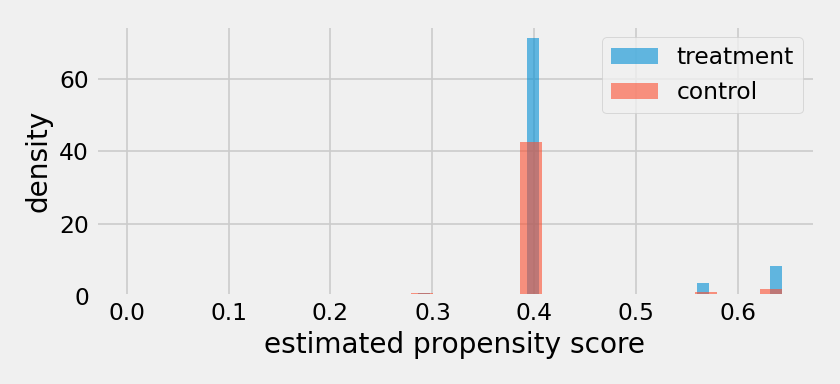
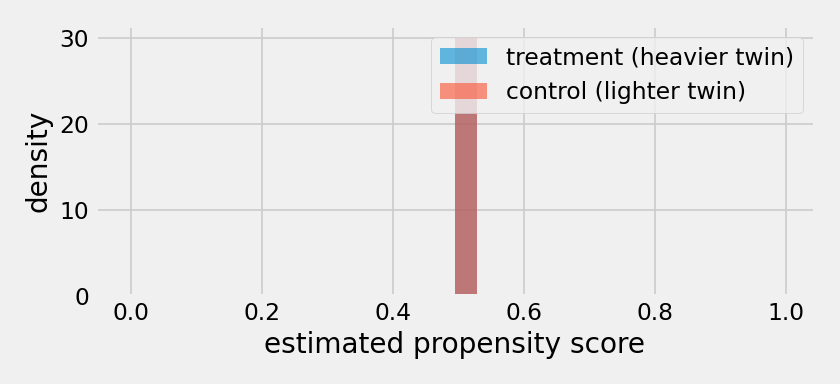
Rebase the tutorial onto the Twins benchmark
LaLonde carries only an experimental ATE, so the tutorial's heterogeneity
steps had no truth to check against. Twins (fetch_twins) observes both twins
of each pair, so both potential outcomes are measured rather than simulated
and the per-unit effect is known.

The evaluation step now teaches with ground truth: the default XGB X-learner
scores worse than predicting zero effect on held-out PEHE and its RATE is
significantly negative (p = 0.006) -- overfitting individual noise -- and a
regularized refit brings PEHE to the zero baseline, cuts the ATE error 3x,
and returns a null RATE. The honest conclusion is stated: +1.6pp survival
from higher birth weight, no heterogeneity that survives a held-out test.

The outcome is modeled as survival so a positive effect is a benefit, the
orientation the ranking metrics assume. All outputs are from a real seeded
run; the overlap figure now shows the flat propensity a coin-flip assignment
produces.

diff --git a/docs/tutorial.rst b/docs/tutorial.rst
@@ -2,23 +2,22 @@
 A First Causal Analysis
 ========================
 
-This tutorial walks one real analysis end to end: estimating the effect of a
-job-training program on earnings, on data where the right answer is known. Each
-step names the User Guide page that covers it in depth. The dataset downloads
-on first use and is cached locally (see :doc:`datasets`).
-
-Because the data come from a randomized experiment, the simple
-difference in means is a valid benchmark -- which is exactly what makes this a
-good first dataset: every estimate below can be checked against it.
+This tutorial walks one real analysis end to end, on a dataset where the
+per-unit ground truth is known -- so every estimate below can be checked
+against the right answer, including the heterogeneous ones. Each step names
+the User Guide page that covers it in depth. The dataset downloads on first
+use and is cached locally (see :doc:`datasets`).
 
 Step 1: State the question
 ==========================
 
-The National Supported Work (NSW) demonstration randomly assigned
-disadvantaged workers to a job-training program. The question: what was the
-effect of training (the treatment) on 1978 earnings (the outcome)? The
-experimental difference in means, about $1,794, is the number an estimator
-should recover :cite:`lalonde1986evaluating`.
+The Twins benchmark :cite:`louizos2017causal` covers 11,400 same-sex twin
+births from US birth records. The treatment is being the heavier twin of the
+pair and the outcome is one-year mortality. Because *both* twins are observed,
+both potential outcomes are measured rather than simulated: the true effect
+for every pair, and therefore the true average effect, is known. The question:
+what is the effect of higher birth weight on survival, and does it vary across
+pairs?
 
 Step 2: Load the data
 =====================
@@ -27,27 +26,34 @@ Step 2: Load the data
 
     import numpy as np
     import pandas as pd
-    from causalml.dataset import fetch_lalonde
+    from causalml.dataset import fetch_twins
 
     RS = 42
     np.random.seed(RS)
 
-    data = fetch_lalonde()
+    data = fetch_twins(random_state=RS)
     X = pd.DataFrame(data.data, columns=data.feature_names)
     treatment = np.asarray(data.treatment)
-    y = np.asarray(data.target)
+    y = 1 - np.asarray(data.target)   # survival = 1 - mortality
+    tau_true = -np.asarray(data.tau)  # effect on survival
 
     print(X.shape, treatment.sum())
-    print(y[treatment == 1].mean() - y[treatment == 0].mean())
+    print("true ATE: %.4f" % tau_true.mean())
+    print("diff in means: %.4f" % (y[treatment == 1].mean() - y[treatment == 0].mean()))
 
 .. code-block:: text
 
-    (445, 8) 185
-    1794.3
+    (11400, 30) 5640
+    true ATE: 0.0161
+    diff in means: 0.0189
 
-445 workers, 185 treated; the covariates are age, education, race/ethnicity
-indicators, marital status, a no-degree indicator, and earnings in 1974 and
-1975.
+The recorded outcome is mortality; the code models survival so that a positive
+effect is a benefit, which is the orientation the ranking metrics in Step 6
+assume. The lighter twin's one-year mortality is 17.8%, matching the figure
+reported by :cite:`louizos2017causal`, and being the heavier twin raises
+survival by 1.61 percentage points on average. The loader reveals one twin per
+pair by a fair coin (``random_state`` fixes the coin), so the difference in
+means, 1.89 points, is a valid but noisy estimate of that truth.
 
 Step 3: Check overlap
 =====================
@@ -63,14 +69,21 @@ its distribution across groups:
 
     pm = ElasticNetPropensityModel(random_state=RS)
     p_hat = pm.fit_predict(X, treatment)
+    print("%.3f - %.3f" % (p_hat.min(), p_hat.max()))
+
+.. code-block:: text
+
+    0.495 - 0.495
 
 .. image:: ./_static/img/tutorial_overlap.png
     :width: 629
-    :alt: Overlapping propensity-score histograms for the treatment and control groups.
+    :alt: Propensity scores concentrated at a single value for both twins, as expected under randomized assignment.
 
-The two distributions overlap over their whole range, as they should in a
-randomized experiment. Because the assignment probability is known here, the
-estimators below receive it directly rather than an estimate of it:
+The estimated propensity is the same for every unit: no covariate predicts
+which twin was revealed, exactly what a coin flip should produce. On
+observational data this picture instead shows two separated distributions, and
+this step is where problems announce themselves. Because the assignment
+probability is known here, the estimators below receive it directly:
 
 .. code-block:: python
 
@@ -80,9 +93,12 @@ Step 4: Estimate the average effect
 ===================================
 
 Start with a transparent baseline -- a :ref:`T-Learner <methodology:T-Learner>`
-with linear regression, which fits one regression per group and differences the
-predictions -- then a more flexible :ref:`X-Learner <methodology:X-Learner>`
-with gradient-boosted trees:
+with linear regression, which fits one regression per group and differences
+the predictions -- then a more flexible :ref:`X-Learner
+<methodology:X-Learner>` with gradient-boosted trees. (The outcome is binary;
+the ``*Classifier`` learner variants accept classification base learners, but
+a regressor on a binary outcome estimates the same risk difference and keeps
+this tutorial short.)
 
 .. code-block:: python
 
@@ -98,12 +114,13 @@ with gradient-boosted trees:
 
 .. code-block:: text
 
-    (array([1622.06]), array([335.90]), array([2908.22]))
-    (array([1865.90]), array([1138.36]), array([2593.43]))
+    (array([0.01767856]), array([0.00610093]), array([0.02925618]))
+    (array([0.01737203]), array([0.01086719]), array([0.02387686]))
 
 Each call returns the ATE with a confidence interval (how these are computed
-is cataloged in :doc:`inference`). Both intervals bracket the experimental
-benchmark of $1,794.
+is cataloged in :doc:`inference`). Both intervals bracket the true value of
+0.0161 -- on most datasets there is no such number to check against, which is
+what the :doc:`validation <validation>` machinery is for.
 
 Step 5: Estimate heterogeneous effects
 ======================================
@@ -112,57 +129,98 @@ The same fitted X-learner produces a per-unit CATE estimate:
 
 .. code-block:: python
 
-    cate = xl.fit_predict(X=X, treatment=treatment, y=y, p=p)
-    print(cate.mean(), cate.std())
+    cate = xl.fit_predict(X=X, treatment=treatment, y=y, p=p).flatten()
+    print("mean %.4f sd %.4f" % (cate.mean(), cate.std()))
 
 .. code-block:: text
 
-    1865.9 6119.3
+    mean 0.0174 sd 0.1495
 
-The spread is large relative to the mean -- but spread in the *estimates* is
-not evidence of real heterogeneity. Whether any of it is signal is a question
-for held-out evaluation.
+The spread is nine times the average effect -- but spread in the *estimates*
+is not evidence of real heterogeneity. Whether any of it is signal is the next
+step's question.
 
-Step 6: Evaluate on held-out data
-=================================
+Step 6: Evaluate against the ground truth
+=========================================
 
-Refit on a training split and score the held-out split with the Qini
-coefficient and :ref:`RATE <methodology:RATE>` (see :doc:`validation` for the
-full evaluation workflow):
+Refit on a training split and evaluate the held-out split. With ground truth
+available, PEHE (the root mean squared error of the per-unit effect estimates)
+and ``ate_error`` measure accuracy directly; the Qini coefficient and
+:ref:`RATE <methodology:RATE>` are the tests available on real data, where no
+truth exists (see :doc:`validation`):
 
 .. code-block:: python
 
     from sklearn.model_selection import train_test_split
-    from causalml.metrics import qini_score, rate_score
+    from causalml.metrics import pehe, ate_error, qini_score, rate_score
 
-    X_tr, X_te, w_tr, w_te, y_tr, y_te = train_test_split(
-        X, treatment, y, test_size=0.3, random_state=RS, stratify=treatment
-    )
+    idx = np.arange(len(y))
+    tr, te = train_test_split(idx, test_size=0.3, random_state=RS,
+                              stratify=treatment)
+    p_tr = np.full(len(tr), treatment[tr].mean())
+    p_te = np.full(len(te), treatment[tr].mean())
+
     xl_ho = BaseXRegressor(learner=XGBRegressor(random_state=RS))
-    xl_ho.fit(X=X_tr, treatment=w_tr, y=y_tr, p=np.full(len(y_tr), w_tr.mean()))
-    cate_te = xl_ho.predict(X=X_te, p=np.full(len(y_te), w_tr.mean())).flatten()
+    xl_ho.fit(X=X.iloc[tr], treatment=treatment[tr], y=y[tr], p=p_tr)
+    cate_te = xl_ho.predict(X=X.iloc[te], p=p_te).flatten()
 
-    df = pd.DataFrame({"y": y_te, "w": w_te, "X-learner": cate_te})
-    print(qini_score(df, outcome_col="y", treatment_col="w",
-                     return_ci=True, random_state=RS))
+    print("PEHE: %.4f" % pehe(tau_true[te], cate_te, squared=False))
+    print("PEHE, predicting zero: %.4f" % pehe(tau_true[te], np.zeros(len(te)), squared=False))
+    print("ate_error: %.4f" % ate_error(tau_true[te], cate_te))
+
+    df = pd.DataFrame({"y": y[te], "w": treatment[te], "X-learner": cate_te})
     print(rate_score(df, outcome_col="y", treatment_col="w",
                      return_ci=True, random_state=RS))
 
 .. code-block:: text
 
-                   qini        se  ci_lower  ci_upper   p_value
-    model
-    X-learner -0.648355  1.480567 -3.550212  2.253503  0.661452
+    PEHE: 0.3540
+    PEHE, predicting zero: 0.3231
+    ate_error: 0.0056
 
-                     rate           se     ci_lower     ci_upper   p_value
+                   rate       se  ci_lower  ci_upper   p_value
     model
-    X-learner  247.592902  1033.931236 -1778.875084  2274.060888  0.810743
+    X-learner -0.246639  0.08943 -0.421918  -0.07136  0.005817
 
-Both confidence intervals include zero: on 134 held-out units there is no
-evidence that the model's prioritization beats treating at random. That is a
-legitimate and common finding -- at this sample size, an insignificant result
-can mean low power rather than no heterogeneity -- and it says the CATE
-estimates from Step 5 should not drive targeting decisions on their own.
+Both verdicts are bad, and they agree. The model's PEHE is *worse* than
+predicting zero effect for everyone, and its RATE is significantly
+*negative*: units it ranks as high-benefit actually gained less than average.
+(The absolute PEHE level is dominated by irreducible noise -- each true
+``tau`` is a difference of two binary outcomes, so values of :math:`\pm 1` are
+common and no estimator can score far below the zero baseline here; PEHE is
+read comparatively.) The diagnosis is overfitting: a flexible learner fit the
+individual noise. The remedy is regularization, chosen exactly as
+:ref:`Model Selection with Validation Losses <validation:Model Selection with Validation Losses>`
+prescribes:
+
+.. code-block:: python
+
+    xl_reg = BaseXRegressor(learner=XGBRegressor(
+        max_depth=2, n_estimators=100, learning_rate=0.05,
+        min_child_weight=100, random_state=RS))
+    xl_reg.fit(X=X.iloc[tr], treatment=treatment[tr], y=y[tr], p=p_tr)
+    cate_reg = xl_reg.predict(X=X.iloc[te], p=p_te).flatten()
+
+    print("PEHE: %.4f" % pehe(tau_true[te], cate_reg, squared=False))
+    print("ate_error: %.4f" % ate_error(tau_true[te], cate_reg))
+    df["X-reg"] = cate_reg
+    print(rate_score(df[["y", "w", "X-reg"]], outcome_col="y",
+                     treatment_col="w", return_ci=True, random_state=RS))
+
+.. code-block:: text
+
+    PEHE: 0.3233
+    ate_error: 0.0016
+
+               rate        se  ci_lower  ci_upper  p_value
+    model
+    X-reg  0.027949  0.084229 -0.13714  0.193038  0.74096
+
+The regularized model stops adding noise (PEHE at the zero baseline, a 3x
+smaller ATE error) and its RATE is indistinguishable from zero. The honest
+conclusion: higher birth weight raises survival by about 1.6 percentage
+points, and neither model finds heterogeneity in that effect that survives a
+held-out test -- a common and publishable finding, not a failure.
 
 Step 7: Interpret the model
 ===========================
@@ -173,22 +231,20 @@ Permutation importance shows which covariates the CATE model relies on (see
 .. code-block:: python
 
     print(xl.get_importance(X=X, tau=cate, method="permutation",
-                            features=X.columns, random_state=RS))
+                            features=X.columns, random_state=RS).head(4))
 
 .. code-block:: text
 
-    age         0.296605
-    re75        0.215293
-    educ        0.180431
-    re74        0.167443
-    marr        0.025297
-    black       0.023638
-    hisp        0.004632
-    nodegree    0.000000
+    gestat      0.376208
+    wtgain      0.259032
+    dmage       0.125790
+    nprevist    0.120816
+    dtype: float64
 
-Age and prior earnings drive the model's estimates. Read this descriptively:
-Step 6 found no validated heterogeneity, so these are properties of the fitted
-model, not established effect modifiers.
+Gestation length, maternal weight gain, maternal age and the number of
+prenatal visits drive the model's estimates. Read this descriptively: Step 6
+found no validated heterogeneity, so these are properties of the fitted model,
+not established effect modifiers.
 
 Step 8: Stress the assumptions
 ==============================
@@ -213,14 +269,13 @@ noise -- the placebo test -- should destroy the effect:
 
 .. code-block:: text
 
-                              Method          ATE      New ATE  New ATE LB   New ATE UB
-    0              Placebo Treatment  1865.895497   747.669383  -12.269935  1507.608700
-    1                   Random Cause  1865.895497  1284.882820  747.662586  1822.103053
-    2  Subset Data(sample size @0.5)  1865.895497  2088.609120  976.685229  3200.533011
+                              Method       ATE   New ATE  New ATE LB  New ATE UB
+    0              Placebo Treatment  0.017372 -0.000768   -0.007422    0.005885
+    1                   Random Cause  0.017372  0.015239    0.009209    0.021269
+    2  Subset Data(sample size @0.5)  0.017372  0.011045    0.003613    0.018476
 
-The placebo interval includes zero, and adding a random covariate or halving
-the sample moves the estimate without changing the conclusion. At n=445 these
-checks are coarse; on larger data they tighten accordingly.
+The placebo estimate is centered on zero, and neither adding a random
+covariate nor halving the sample changes the conclusion.
 
 Where to next
 =============
